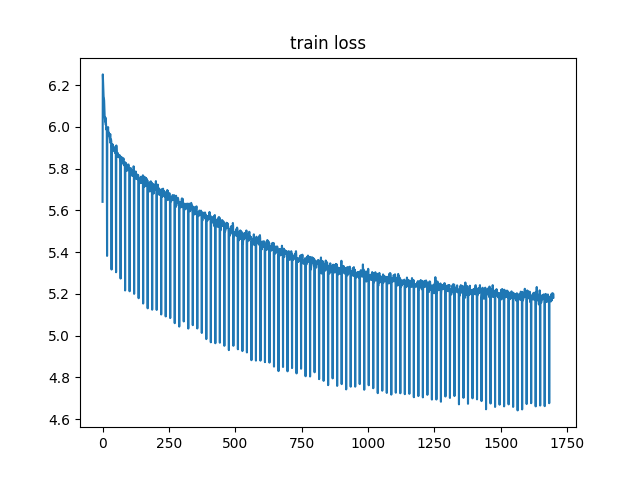
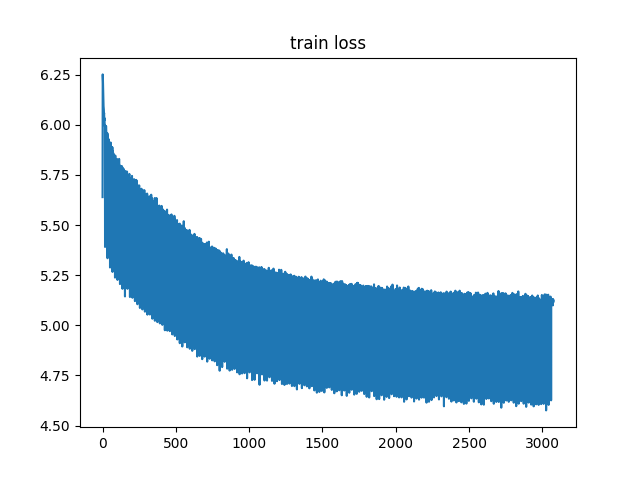
Run with 10% labelled, 181 training epochs and 60 fine tuning epochs

diff --git a/runCIFAR.py b/runCIFAR.py
@@ -125,7 +125,7 @@ def end_to_end():
   print(f'Our model has {simclr.trainer.num_params:,} parameters')
 
   results = simclr.full_model_maker(
-    train_data, tune_data, val_data, n_cycles=2, train_epochs=50, tune_epochs=20,
+    train_data, tune_data, val_data, n_cycles=1, train_epochs=181, tune_epochs=60,
     train_path='chkpt/train.tar', tune_path='chkpt/tune.tar'
   )
 
